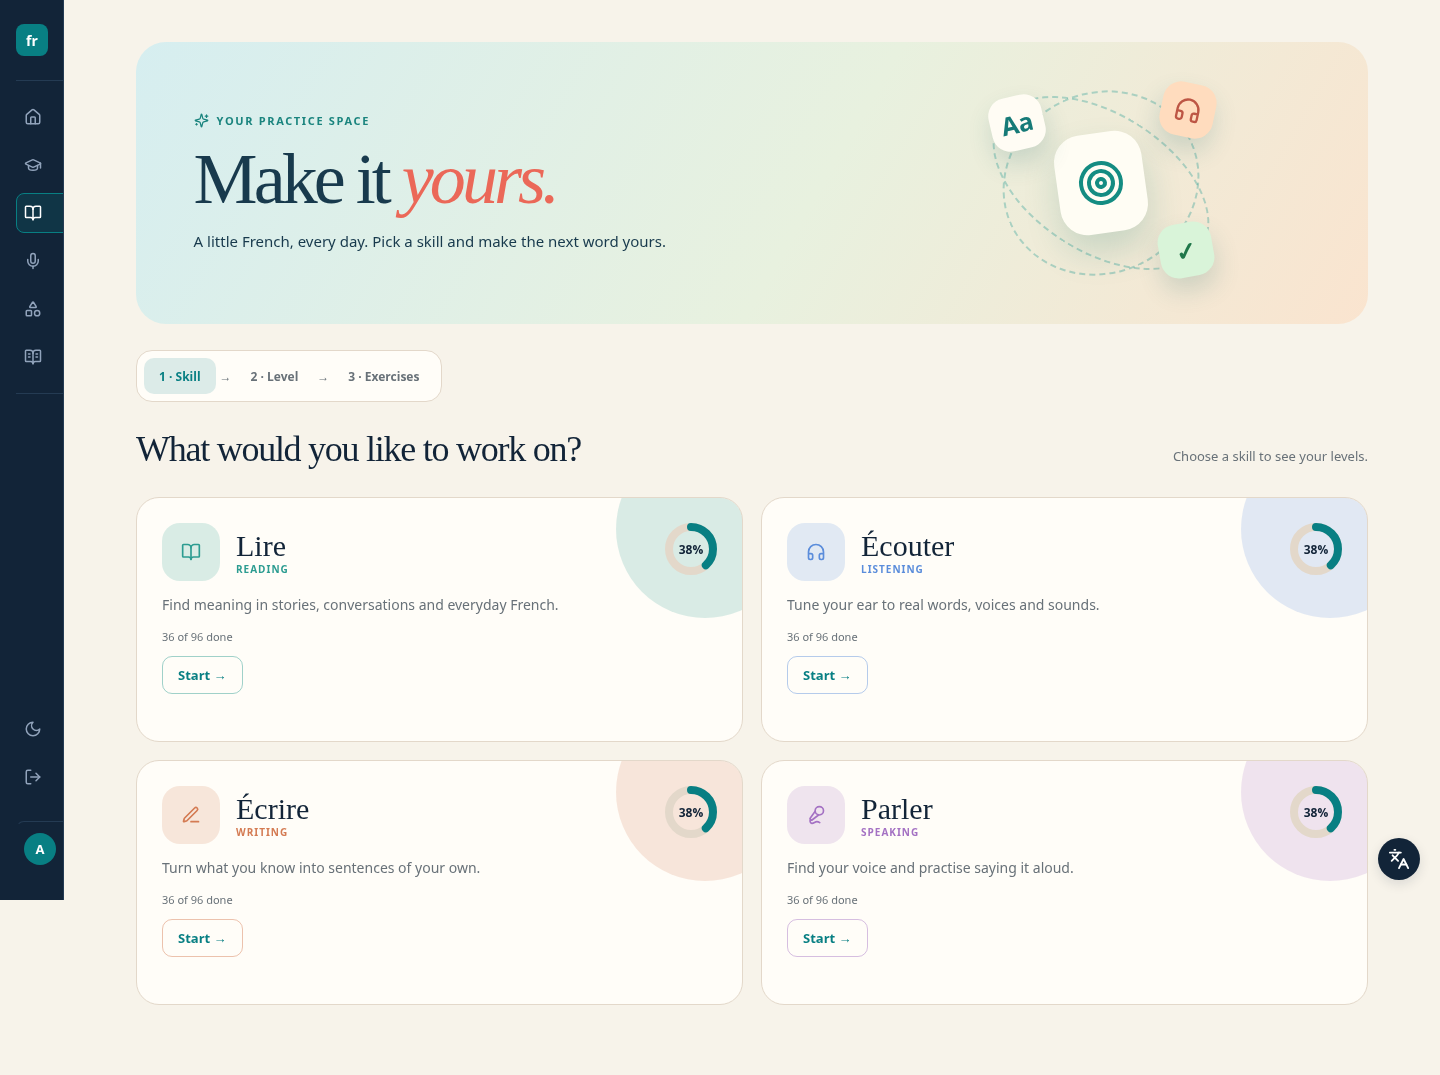
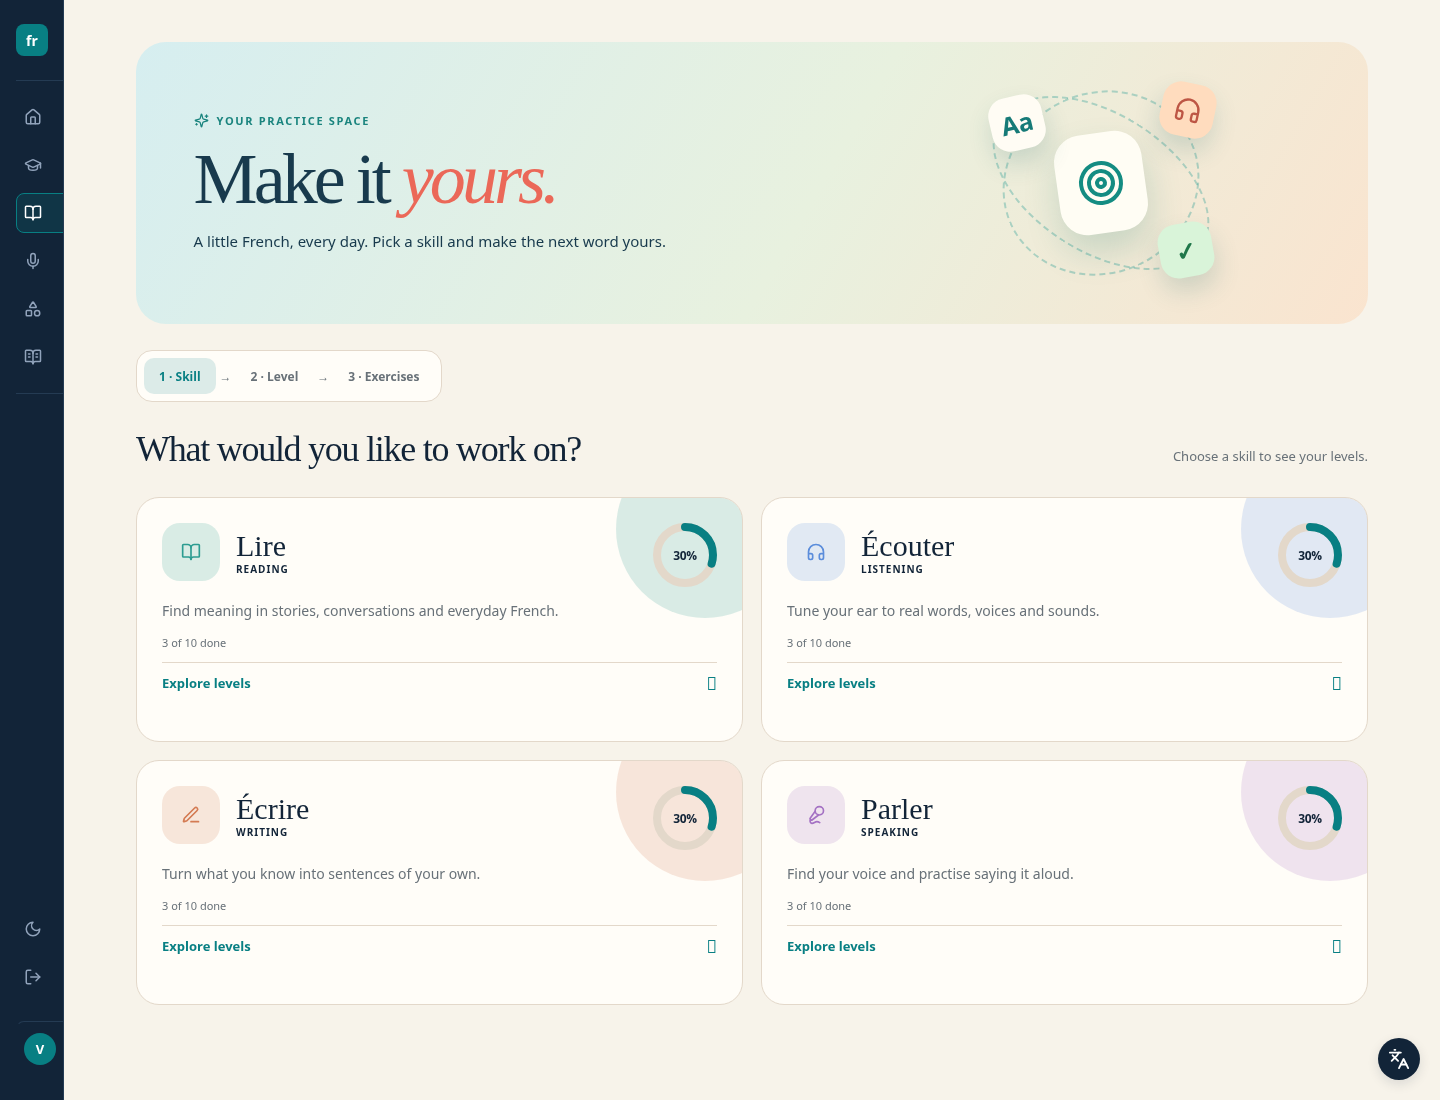
Address practice review feedback and polish exercise controls

diff --git a/src/styles.css b/src/styles.css
@@ -2253,8 +2253,7 @@ html[data-theme] .skill-card .ring-label { color: var(--color-text); font-size: 
 .skill-card-action:has(.skill-card-start:not(:disabled)) { cursor:pointer; }
 .skill-card-action:has(.skill-card-start:not(:disabled)):hover { border-color:var(--color-accent); }
 .skill-card-action:focus-within { outline:2px solid var(--color-accent); outline-offset:3px; }
-.skill-card-start::after { content:''; position:absolute; inset:0; }
-.skill-card-start:focus-visible { outline:none; }
+.skill-card-start span { position:absolute; width:1px; height:1px; padding:0; margin:-1px; overflow:hidden; clip:rect(0,0,0,0); white-space:nowrap; border:0; }
 .practice-bar { display:flex; align-items:center; gap:18px; }
 .practice-bar h1 { margin:0; font-family:var(--font-heading); font-size:24px; font-weight:500; }
 .practice-bar .text-button { width:auto; font-size:12px; color:var(--color-accent); }
@@ -3244,16 +3243,21 @@ html[data-theme] .practice-hero h1 { margin:0; color:var(--practice-hero-ink); f
 .practice-page .skill-card-heading > div:first-child { display:grid; grid-template-columns:62px 1fr; align-items:center; gap:0 12px; }
 .practice-page .skill-card-icon { grid-row:1/3; display:grid; place-items:center; width:58px; height:58px; border-radius:18px; background:color-mix(in srgb,var(--skill-tint) 18%,var(--practice-card)); color:var(--skill-tint); }
 .practice-page .skill-card-heading h3 { align-self:end; margin:0; font-size:30px; line-height:1.1; }
-.practice-page .skill-card-heading > div:first-child > span:last-child { align-self:start; color:var(--skill-tint); }
+.practice-page .skill-card-heading > div:first-child > span:last-child { align-self:start; color:var(--color-text); }
 .practice-page .skill-card p { position:relative; margin:0; font-size:var(--text-14); }
 .practice-page .skill-card > small { margin-top:auto; }
-.practice-page .skill-card-start { position:relative; justify-self:start; width:auto; min-height:38px; margin:0; padding:0 15px; border:1px solid color-mix(in srgb,var(--skill-tint) 45%,transparent); border-radius:10px; color:var(--skill-tint); font-size:var(--text-13); }
-.practice-page .skill-card-start:hover { background:color-mix(in srgb,var(--skill-tint) 12%,transparent); }
+.practice-page .skill-card-invitation { position:relative; display:flex; align-items:center; justify-content:space-between; width:100%; padding-top:11px; border-top:1px solid var(--color-border); color:var(--color-accent); font-size:var(--text-13); font-weight:800; }
+.practice-page .skill-card-invitation span { font-size:var(--text-18); line-height:1; }
+.practice-page .skill-card-start { position:absolute; inset:0; z-index:1; width:100%; height:100%; padding:0; border:0; border-radius:inherit; background:transparent; cursor:pointer; }
+.practice-page .skill-card-start:focus-visible { outline:3px solid var(--color-accent); outline-offset:-4px; }
+.practice-page .skill-card .progress-ring { flex-basis:64px; }
+.practice-page .skill-card .ring-label,.practice-page .practice-level-card .ring-label { font-size:var(--text-13); font-variant-numeric:tabular-nums; letter-spacing:-.025em; }
+.practice-page .skill-card .ring-track,.practice-page .practice-level-card .ring-track { stroke:color-mix(in srgb,var(--color-muted) 65%,var(--practice-card)); }
 .practice-bar { gap:16px; }
 .practice-bar h2 { margin:0; font-family:var(--font-heading); font-size:clamp(26px,2.7vw,36px); font-weight:500; }
 .practice-bar h2 span { color:var(--color-muted); font-family:var(--font-body); font-size:var(--text-17); font-weight:500; }
 .practice-level-grid { gap:16px; padding-top:0; }
-.practice-level-card { overflow:hidden; border-radius:21px; background:var(--practice-card); transition:transform .18s ease,box-shadow .18s ease; }
+.practice-level-card { border-radius:21px; background:var(--practice-card); transition:transform .18s ease,box-shadow .18s ease; }
 .practice-level-card:hover:has(.practice-level-action:not(:disabled)) { transform:translateY(-3px); box-shadow:0 14px 26px color-mix(in srgb,var(--color-accent) 12%,transparent); }
 .practice-level-action { gap:12px; padding:22px; }
 .practice-level-heading strong { font-size:38px; }
@@ -3300,13 +3304,17 @@ html[data-theme] .practice-page .mcq-options button.incorrect { border-color:var
 .mcq-feedback-copy > strong { font-size:var(--text-16); }
 .mcq-feedback-copy > span { color:inherit; font-size:var(--text-14); font-weight:500; text-transform:none; }
 .mcq-feedback-copy > span strong { color:inherit; }
-.practice-page .mcq-feedback .retry-button { margin:0; padding:10px 13px; border-radius:10px; }
+.practice-page .mcq-feedback .retry-button { justify-self:center; margin:0; padding:10px 13px; border-radius:10px; }
 .practice-page .mcq-feedback .retry-button:hover { background:color-mix(in srgb,currentColor 10%,transparent); }
-.practice-page .answer-mode-row { max-width:800px; }
-.practice-page .answer-mode-picker { flex:0 1 auto; width:min(100%,520px); gap:7px; padding:6px; border-radius:15px; background:var(--practice-record); }
+.practice-page .practice-response-panel { display:grid; gap:18px; width:100%; padding:clamp(17px,2vw,26px); border:1px solid var(--color-border); border-radius:20px; background:var(--practice-choice); }
+.practice-page .practice-response-heading { display:flex; flex-wrap:wrap; align-items:baseline; gap:5px 16px; }
+.practice-page .practice-response-heading h3 { margin:0; font-family:var(--font-heading); font-size:var(--text-24); font-weight:600; }
+.practice-page .practice-response-heading p { margin:0; color:var(--color-muted); font-size:var(--text-13); }
+.practice-page .answer-mode-row { max-width:none; }
+.practice-page .answer-mode-picker { flex:0 1 auto; width:min(100%,560px); gap:7px; padding:6px; border-radius:15px; background:var(--practice-record); }
 .practice-page .answer-mode-picker button { min-height:50px; border-radius:11px; }
 .practice-page .answer-mode-picker button[aria-pressed="true"] { box-shadow:0 5px 15px color-mix(in srgb,var(--color-accent) 20%,transparent); }
-.practice-page .practice-recording-stage { display:grid; gap:14px; width:min(100%,800px); min-height:96px; padding:18px; border:1px solid var(--color-border); border-radius:17px; background:var(--practice-record); }
+.practice-page .practice-recording-stage { display:grid; gap:14px; width:100%; min-height:96px; padding:18px; border:1px solid var(--color-border); border-radius:17px; background:var(--practice-record); }
 .practice-page .practice-recording-stage > .primary-button { width:100%; min-height:52px; margin:0; }
 .practice-recording-live { display:flex; align-items:center; justify-content:space-between; gap:18px; }
 .practice-recording-live p { display:flex; align-items:center; gap:8px; margin:0; font-weight:750; }
@@ -3316,18 +3324,30 @@ html[data-theme] .practice-page .mcq-options button.incorrect { border-color:var
 .practice-page .answer-recording-row > .answer-recording { flex:1 1 auto; max-width:none; padding:0; border:0; background:transparent; }
 .practice-page .answer-recording-row > .text-button { flex:none; width:auto; min-height:42px; margin:0; padding:9px 12px; border:1px solid var(--color-border); border-radius:10px; background:var(--color-surface); color:var(--color-accent); }
 .practice-page .answer-recording-row > .text-button:hover { border-color:var(--color-accent); }
-.practice-page .answer-submit { width:min(100%,800px); padding:0; }
+.practice-page .answer-submit { width:100%; padding:0; }
 .practice-page .answer-submit .primary-button { min-height:52px; }
+.practice-page .practice-response-panel textarea { min-height:170px; padding:18px; background:var(--color-surface); }
+.practice-page .practice-response-panel .primary-button,.practice-page .read-aloud-exercise .primary-button { border:0; background:var(--palette-coral); color:var(--palette-white); box-shadow:none; }
+.practice-page .practice-response-panel .primary-button:hover:not(:disabled),.practice-page .read-aloud-exercise .primary-button:hover:not(:disabled) { background:color-mix(in srgb,var(--palette-coral) 83%,var(--color-text)); box-shadow:none; }
 .practice-page .pronunciation-drill { gap:18px; }
 .practice-page .pronunciation-card .clip-player { width:min(100%,800px); max-width:none; }
 .practice-page .pronunciation-card .clip-play-button { min-height:56px; border-radius:14px; }
 .practice-page .answer-comparison > div,.practice-page .answer-hints { border-radius:15px; background:var(--practice-choice); }
 .practice-page .read-aloud-phrase { padding:20px 23px; border-left:4px solid var(--color-accent); border-radius:0 13px 13px 0; background:var(--practice-choice); }
 .practice-page .freeform-exercise,.practice-page .read-aloud-exercise { gap:20px; }
-.practice-page .read-aloud-exercise .practice-recording-stage { width:min(100%,800px); }
+.practice-page .read-aloud-exercise .practice-recording-stage { width:100%; }
 .practice-page .practice-recording-actions { display:flex; flex-wrap:wrap; gap:10px; }
 .practice-page .practice-recording-actions .primary-button,.practice-page .practice-recording-actions .text-button { width:auto; min-height:44px; margin:0; }
 .practice-page .freeform-exercise .free-text-input,.practice-page textarea { border-radius:14px; background:var(--practice-choice); }
+.practice-page .practice-tray-label { margin-bottom:-10px; color:var(--color-text); font-size:var(--text-14); }
+.practice-page .word-order-answer { align-items:center; min-height:84px; padding:16px 18px; border:2px dashed color-mix(in srgb,var(--color-accent) 48%,var(--color-border)); border-radius:16px; background:var(--practice-choice); color:var(--color-muted); }
+.practice-page .word-order-bank { align-items:center; min-height:74px; margin:0; padding:16px; border:1px solid var(--color-border); border-radius:16px; background:var(--practice-record); }
+.practice-page .word-token { min-height:42px; padding:9px 16px; border:1px solid var(--color-accent); border-radius:11px; background:var(--color-surface); color:var(--color-text); box-shadow:0 3px 0 color-mix(in srgb,var(--color-accent) 28%,transparent); font:inherit; font-weight:700; }
+.practice-page .word-token:hover:not(:disabled) { transform:translateY(-2px); box-shadow:0 5px 0 color-mix(in srgb,var(--color-accent) 28%,transparent); }
+.practice-page .word-token.placed { border-color:var(--color-accent); background:color-mix(in srgb,var(--color-accent) 15%,var(--color-surface)); color:var(--color-text); }
+.practice-page .exercise-preview > .primary-button,.practice-page .exercise-preview > form .primary-button { width:min(100%,360px); min-height:50px; margin:0; border:0; background:var(--palette-coral); color:var(--palette-white); box-shadow:none; }
+.practice-page .exercise-preview > form { display:grid; gap:14px; }
+.practice-page .exercise-preview > form textarea { min-height:165px; padding:18px; }
 .practice-page .content-feedback { gap:14px; padding:22px; border:1px solid var(--practice-good); border-radius:16px; background:var(--practice-good-fill); }
 .practice-page .content-feedback h3 { color:var(--practice-good); }
 .practice-page .error-message { border-radius:12px; }
@@ -3363,7 +3383,7 @@ html:not([data-theme="light"]) .practice-hero-tile.tile-three { background:#276d
   .practice-skill-grid,.practice-level-grid,html[data-theme] .practice-page .mcq-options { grid-template-columns:1fr; }
   .practice-page .skill-card { min-height:205px; }
   .practice-page .mcq-feedback { grid-template-columns:42px minmax(0,1fr); }
-  .practice-page .mcq-feedback .retry-button { grid-column:2; justify-self:start; }
+  .practice-page .mcq-feedback .retry-button { grid-column:1/-1; justify-self:center; }
   .practice-page .answer-recording-row { align-items:stretch; flex-direction:column; }
   .practice-page .answer-recording-row > .text-button { align-self:flex-start; }
   .practice-recording-live { align-items:stretch; flex-direction:column; }

diff --git a/src/components/exercises/ReadAloud.tsx b/src/components/exercises/ReadAloud.tsx
@@ -49,8 +49,9 @@ export function ReadAloud({ entry, token, onResult, simulateSubmit }: Props) {
   }
 
   function recordAgain() {
+    if (busy) return;
     recorder.cancelRecording(); setHeard(null); setError('');
-    void recorder.startRecording();
+    if (!simulateSubmit) void recorder.startRecording();
   }
 
   return <ExerciseShell>
@@ -71,13 +72,13 @@ export function ReadAloud({ entry, token, onResult, simulateSubmit }: Props) {
           {available && recorder.browserSupported && recorder.phase === 'idle' && <Button variant="primary" icon={Mic} onClick={recorder.startRecording}>Record reading</Button>}
           {recorder.phase === 'requesting' && <Text role="status">Requesting microphone…</Text>}
           {recorder.phase === 'recording' && <Box className="practice-recording-live"><Text role="status">Recording <Text as="span">{recorder.elapsed}s / 60s</Text></Text><Button variant="primary" icon={Square} onClick={recorder.stopRecording}>Finish recording</Button></Box>}
-          {recorder.phase === 'ready' && <><Box className="answer-recording"><Text as="strong">Listen to your recording</Text><AudioPlayer src={recorder.previewUrl} /></Box><Box className="practice-recording-actions"><Button variant="primary" disabled={busy} onClick={transcribe}>{busy ? 'Checking…' : 'Check reading'}</Button><Button variant="text" icon={RotateCcw} onClick={recordAgain}>Record again</Button></Box></>}
+          {recorder.phase === 'ready' && <><Box className="answer-recording"><Text as="strong">Listen to your recording</Text><AudioPlayer src={recorder.previewUrl} /></Box><Box className="practice-recording-actions"><Button variant="primary" disabled={busy} onClick={transcribe}>{busy ? 'Checking…' : 'Check reading'}</Button><Button variant="text" disabled={busy} icon={RotateCcw} onClick={recordAgain}>Record again</Button></Box></>}
         </Box>}
         {heard && <Box className="speech-feedback" aria-live="polite">
           <Text as="strong">What was heard</Text><Text>{heard.transcript}</Text>
           {heard.pronunciation.unclear_words.length > 0 && <><Text as="strong">These words sounded unclear — try again</Text><Text>{heard.pronunciation.unclear_words.map((word) => word.word).join(' · ')}</Text></>}
           <Button variant="primary" disabled={busy} onClick={save}>Save practice</Button>
-          <Button variant="text" onClick={recordAgain}>Try again</Button>
+          <Button variant="text" disabled={busy} onClick={recordAgain}>Try again</Button>
         </Box>}
       </>}
       {result && <Feedback tone="correct" title="Reading saved." />}

diff --git a/src/components/exercises/FreeText.tsx b/src/components/exercises/FreeText.tsx
@@ -102,7 +102,8 @@ export function FreeText({ entry, token, onResult, simulateSubmit }: Props) {
       {entry.instructions && <Text>{entry.instructions}</Text>}
       <Text className="speaking-task-note">{GUIDANCE[entry.level || 'A1'] || GUIDANCE.A1}</Text>
       {entry.example && <Box as="details" className="speaking-followups"><Box as="summary">See an example</Box><Text>{entry.example}</Text></Box>}
-      {!feedback && <>
+      {!feedback && <Box className="practice-response-panel">
+        <Box className="practice-response-heading"><Text as="h3">Your response</Text><Text>Choose how you want to answer.</Text></Box>
         <Box className="answer-mode-row">
           <AnswerModePicker value={mode} onChange={choose} disabled={busy || recorder.phase === 'requesting'} />
         </Box>
@@ -116,7 +117,7 @@ export function FreeText({ entry, token, onResult, simulateSubmit }: Props) {
             {heard && !recorder.previewUrl && <Text className="speaking-task-note">Sample answer ready for feedback.</Text>}
           </Box>}
         {(mode === 'typed' ? Boolean(value.trim()) : Boolean(heard || recorder.blob)) && <Box className="answer-submit"><Button variant="primary" wide disabled={busy} onClick={submit}>{busy ? 'Getting feedback…' : 'Get feedback'}</Button></Box>}
-      </>}
+      </Box>}
       {feedback && <Box className="content-feedback" aria-live="polite">
         <Text as="h3">What went well</Text>
         {feedback.what_went_well.map((item, index) => <Box key={index}><Text>{item.point}</Text><Text className="speaking-feedback-note">“{item.quote}”</Text></Box>)}

diff --git a/src/views/PastQuestions.tsx b/src/views/PastQuestions.tsx
@@ -88,6 +88,8 @@ function ExamQuestionCard({ question, selected, onSelect, onRetry, result, pendi
   let passage = String(question.context || '').trim();
   if (passage && prompt && passage.toLowerCase().startsWith(prompt.toLowerCase())) passage = passage.slice(prompt.length).trim();
   const answered = result ? (isCorrect ? 'correct' : 'wrong') : null;
+  const reveal = result?.reveal || question.answer;
+  const correctAnswer = choices.find(choice => choice.key.trim().toLowerCase() === String(reveal ?? '').trim().toLowerCase())?.text || reveal || 'See the explanation.';
   return (
     <ExerciseShell eyebrow={`${question.exam_name} - ${question.skill}`} answered={answered}>
       {passage && passage.toLowerCase() !== prompt.toLowerCase() && <ReadingPassage text={passage} />}
@@ -108,7 +110,7 @@ function ExamQuestionCard({ question, selected, onSelect, onRetry, result, pendi
         <Feedback
           tone={isCorrect ? 'correct' : 'incorrect'}
           title={isCorrect ? 'Correct!' : 'Not quite.'}
-          message={isCorrect ? (question.explanation || 'Well done.') : `Correct answer: ${result.reveal || question.answer || 'See the explanation.'}`}
+          message={isCorrect ? (question.explanation || 'Well done.') : `Correct answer: ${correctAnswer}`}
           onRetry={isCorrect ? undefined : onRetry}
           retryLabel="Retry"
         />

diff --git a/src/components/ui/SkillCard.tsx b/src/components/ui/SkillCard.tsx
@@ -19,11 +19,12 @@ export function SkillCard({ title,gloss,description,done,total,percent,loading=f
   return (
     <section className={onStart ? 'skill-card skill-card-action' : 'skill-card'}>
       <div className="skill-card-heading"><div>{Icon && <span className="skill-card-icon"><Icon size={20} aria-hidden="true" /></span>}<h3>{title}</h3><span>{gloss}</span></div>
-        {!loading && <ProgressRing percent={percent} size={52} label={`${gloss}: ${done} of ${total} done`} />}
+        {!loading && <ProgressRing percent={percent} size={64} label={`${gloss}: ${done} of ${total} done`} />}
       </div>
       <p>{description}</p>
       <small>{loading ? 'Progress loading…' : total ? `${done} of ${total} done` : 'No exercises yet'}</small>
-      {onStart && <button type="button" className="text-button skill-card-start" onClick={onStart} disabled={loading || !total} aria-label={`Start ${gloss}`}>Start →</button>}
+      {onStart && !loading && total > 0 && <span className="skill-card-invitation" aria-hidden="true">Explore levels <span>↗</span></span>}
+      {onStart && !loading && total > 0 && <button type="button" className="skill-card-start" onClick={onStart} aria-label={`Open ${gloss} practice`}><span className="visually-hidden">Open {gloss} practice</span></button>}
     </section>
   );
 }

diff --git a/src/components/exercises/WordOrder.tsx b/src/components/exercises/WordOrder.tsx
@@ -156,13 +156,15 @@ export function WordOrder({ entry, token, onResult, simulateSubmit }: WordOrderP
       <ExerciseEyebrow level={entry.level} kind="word order" />
       <Text as="h2">{entry.prompt}</Text>
       <Text variant="muted">Tap the words in order to build the sentence. Tap a placed word to remove it.</Text>
-      <TokenTray variant="answer" label="Your sentence" emptyHint="Your sentence appears here…">
+      <Text as="strong" className="practice-tray-label">Your sentence</Text>
+      <TokenTray variant="answer" label="Your sentence" emptyHint="Tap a word below to begin.">
         {answer.map((word, index) => (
           <WordToken key={`a-${index}`} placed disabled={Boolean(result)} onClick={() => giveBack(index)}>
             {word}
           </WordToken>
         ))}
       </TokenTray>
+      <Text as="strong" className="practice-tray-label">Word bank</Text>
       <TokenTray variant="bank" label="Word bank">
         {bank.map((word, index) => (
           <WordToken key={`b-${index}-${word}`} disabled={Boolean(result)} onClick={() => take(index)}>

diff --git a/src/components/ui/PracticeLevelCard.tsx b/src/components/ui/PracticeLevelCard.tsx
@@ -7,7 +7,7 @@ export function PracticeLevelCard({level,clb,description,done,total,percent,sele
     <button type="button" className="practice-level-action" disabled={!total} onClick={onStart} aria-label={`Start ${level} exercises`}>
       {yourLevel && <span className="practice-your-level">Your level</span>}
       <span className="practice-level-heading"><strong>{level}</strong><small>CLB {clb}</small></span>
-      <ProgressRing size={54} percent={percent} label={`${level}: ${done} of ${total} done`}/>
+      <ProgressRing size={64} percent={percent} label={`${level}: ${done} of ${total} done`}/>
       <span className="practice-level-description">{description}</span>
       <small>{total ? `${done} of ${total} done` : 'No exercises yet'}</small>
       <span className="practice-level-start">{total ? 'Start →' : 'No exercises yet'}</span>
